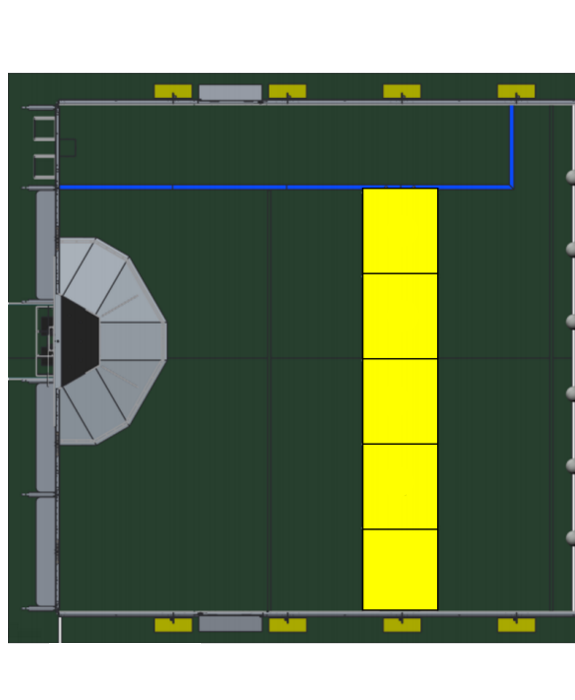
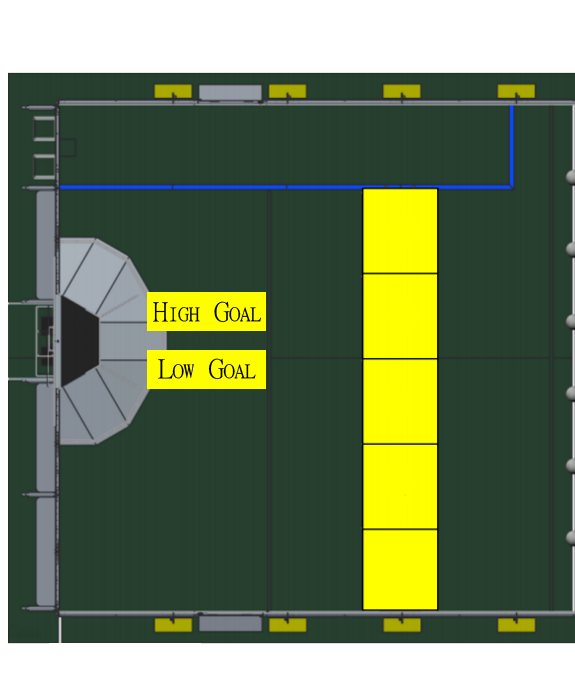
Made Tele-Op better, and updated images with goal buttons.

Changed region(s): [[0.2365, 0.42, 0.473, 0.57]]

diff --git a/WebContent/js/teleop.js b/WebContent/js/teleop.js
@@ -2,6 +2,7 @@ var robotPositions = [];
 var defensePositions = [];
 var selectMode = 0;
 var selectedDefense;
+var operationAttempted = "";
 
 var defense = function(image, position, category, name){
 	this.image = image;
@@ -271,6 +272,12 @@ var robot = function(teamNumber, position){
 			}
 		}
 		
+		highGoalPath = new Path2D();
+		highGoalPath.rect();
+		
+		lowGoalPath = new Path2D();
+		lowGoalPath.rect();
+		
 		failedPath = new Path2D();
 		failedPath.rect(105, 652, 78, 33);
 		
@@ -316,37 +323,196 @@ var robot = function(teamNumber, position){
 				if (context.isPointInPath(defense1Path, x, y))
 				{
 					selectedDefense = defensePositions[0];
-					ctx.fill(defense1Path);
+					ctx.strokeStyle = "red";
+					ctx.lineWidth = 2;
+					ctx.stroke(defense1Path);
+					if (selectedDefense.name == "Portcullis")
+					{
+						operationAttempted = "1";
+					}
+					else if (selectedDefense.name = "Cheval De Frise")
+					{
+						operationAttempted = "2";
+					}
+					else if (selectedDefense.name == "Moat")
+					{
+						operationAttempted = "3";
+					}
+					else if (selectedDefense.name == "Ramparts")
+					{
+						operationAttempted = "4";
+					}
+					else if (selectedDefense.name == "Drawbridge")
+					{
+						operationAttempted = "5";
+					}
+					else if (selectedDefense.name == "Sally Port")
+					{
+						operationAttempted = "6";
+					}
+					else if (selectedDefense.name == "Rock Wall")
+					{
+						operationAttempted = "7";
+					}
+					else if (selectedDefense.name == "Rough Terrain")
+					{
+						operationAttempted = "8";
+					}
 				}
 				else if (context.isPointInPath(defense2Path, x, y))
 				{
 					selectedDefense = defensePositions[1];
-					ctx.fill(defense2Path);
+					ctx.strokeStyle = "red";
+					ctx.lineWidth = 2;
+					ctx.stroke(defense2Path);
+					if (selectedDefense.name == "Portcullis")
+					{
+						operationAttempted = "1";
+					}
+					else if (selectedDefense.name = "Cheval De Frise")
+					{
+						operationAttempted = "2";
+					}
+					else if (selectedDefense.name == "Moat")
+					{
+						operationAttempted = "3";
+					}
+					else if (selectedDefense.name == "Ramparts")
+					{
+						operationAttempted = "4";
+					}
+					else if (selectedDefense.name == "Drawbridge")
+					{
+						operationAttempted = "5";
+					}
+					else if (selectedDefense.name == "Sally Port")
+					{
+						operationAttempted = "6";
+					}
+					else if (selectedDefense.name == "Rock Wall")
+					{
+						operationAttempted = "7";
+					}
+					else if (selectedDefense.name == "Rough Terrain")
+					{
+						operationAttempted = "8";
+					}
 				}
 				else if (context.isPointInPath(defense3Path, x, y))
 				{
 					selectedDefense = defensePositions[2];
-					ctx.globalAlpha = 0.5;
-					ctx.fill(defense3Path);
-					ctx.globalAlpha = 1.0;
+					ctx.strokeStyle = "red";
+					ctx.lineWidth = 2;
+					ctx.stroke(defense3Path);
+					if (selectedDefense.name == "Portcullis")
+					{
+						operationAttempted = "1";
+					}
+					else if (selectedDefense.name = "Cheval De Frise")
+					{
+						operationAttempted = "2";
+					}
+					else if (selectedDefense.name == "Moat")
+					{
+						operationAttempted = "3";
+					}
+					else if (selectedDefense.name == "Ramparts")
+					{
+						operationAttempted = "4";
+					}
+					else if (selectedDefense.name == "Drawbridge")
+					{
+						operationAttempted = "5";
+					}
+					else if (selectedDefense.name == "Sally Port")
+					{
+						operationAttempted = "6";
+					}
+					else if (selectedDefense.name == "Rock Wall")
+					{
+						operationAttempted = "7";
+					}
+					else if (selectedDefense.name == "Rough Terrain")
+					{
+						operationAttempted = "8";
+					}
 				}
 				else if (context.isPointInPath(defense4Path, x, y))
 				{
 					selectedDefense = defensePositions[3];
-					ctx.fill(defense4Path);
+					ctx.strokeStyle = "red";
+					ctx.lineWidth = 2;
+					ctx.stroke(defense4Path);
+					if (selectedDefense.name == "Portcullis")
+					{
+						operationAttempted = "1";
+					}
+					else if (selectedDefense.name = "Cheval De Frise")
+					{
+						operationAttempted = "2";
+					}
+					else if (selectedDefense.name == "Moat")
+					{
+						operationAttempted = "3";
+					}
+					else if (selectedDefense.name == "Ramparts")
+					{
+						operationAttempted = "4";
+					}
+					else if (selectedDefense.name == "Drawbridge")
+					{
+						operationAttempted = "5";
+					}
+					else if (selectedDefense.name == "Sally Port")
+					{
+						operationAttempted = "6";
+					}
+					else if (selectedDefense.name == "Rock Wall")
+					{
+						operationAttempted = "7";
+					}
+					else if (selectedDefense.name == "Rough Terrain")
+					{
+						operationAttempted = "8";
+					}
 				}
 				else if (context.isPointInPath(lowBarPath, x, y))
 				{
 					selectedDefense = defensePositions[4];
-					ctx.fill(lowBarPath);
+					ctx.strokeStyle = "red";
+					ctx.lineWidth = 2;
+					ctx.stroke(lowBarPath);
+					operationAttempted = "0";
 				}
 				else if (context.isPointInPath(failedPath, x, y))
 				{
-					
+					if (operationAttempted != "")
+					{
+						var form = document.getElementById("cycleForm");
+						form.innerHTML += '<input type="hidden" name="operationAttempted" value="' + operationAttempted + '"/>';
+					}
 				}
 				else if (context.isPointInPath(succeededPath, x, y))
 				{
-					
+					if (operationAttempted != "")
+					{
+						var form = document.getElementById("cycleForm");
+						form.innerHTML += '<input type="hidden" name="operationAttempted" value="' + operationAttempted + '"/>';
+					}
+				}
+				else if (context.isPointInPath(highGoalPath, x, y))
+				{
+					ctx.strokeStyle = "red";
+					ctx.lineWidth = 2;
+					ctx.stroke(highGoalPath);
+					operationAttempted = "H";
+				}
+				else if (context.isPointInPath(lowGoalPath, x, y))
+				{
+					ctx.strokeStyle = "red";
+					ctx.lineWidth = 2;
+					ctx.stroke(lowGoalPath);
+					operationAttempted = "L";
 				}
 			}
 		}
